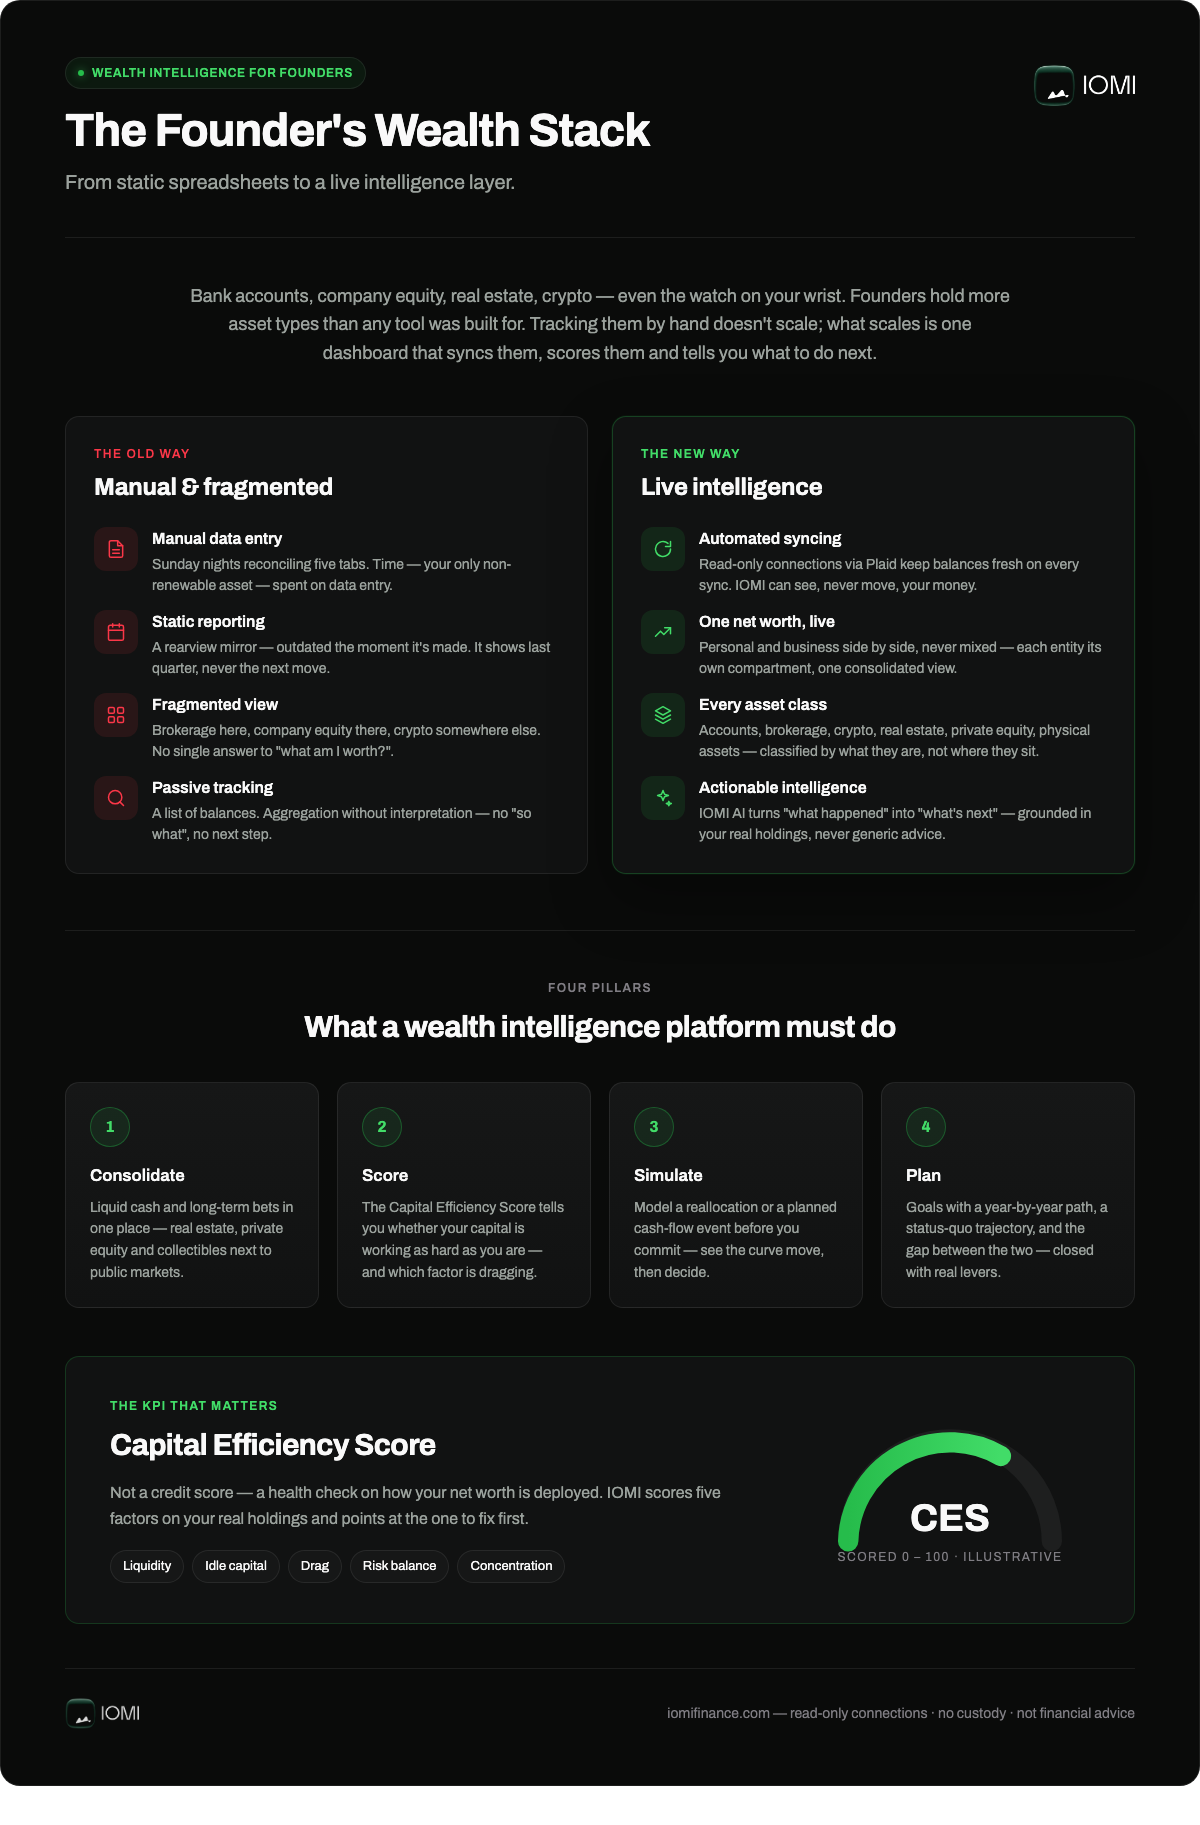
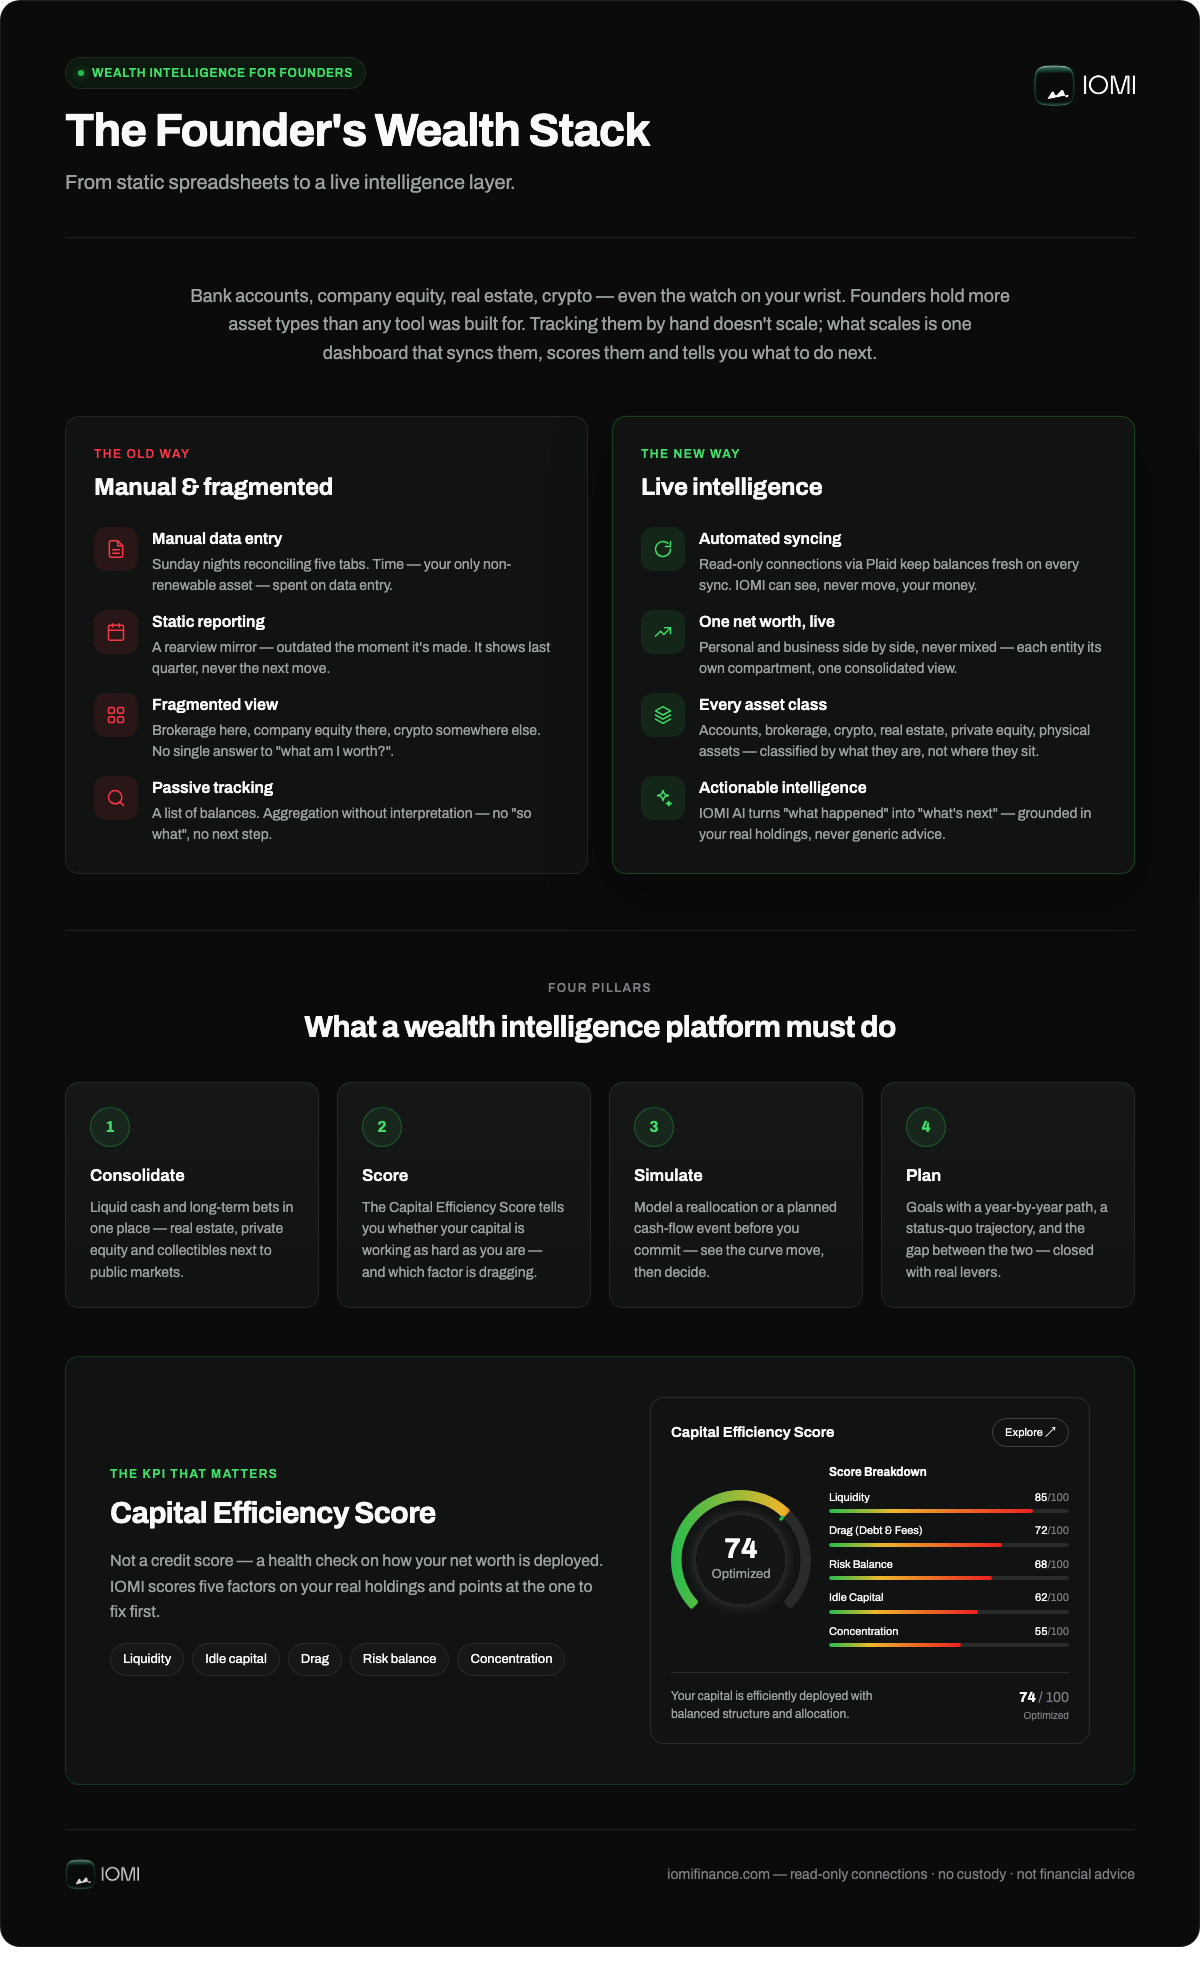
Nav: Features tab → #process; infographic shows the real CES card

diff --git a/index.html b/index.html
@@ -455,7 +455,7 @@ height="0" width="0" style="display:none;visibility:hidden"></iframe></noscript>
 <nav id="navbar" class="fixed top-0 left-0 right-0 z-50 transition-all duration-300 nav-tr" style="backdrop-filter:blur(0px)">
   <div class="max-w-7xl mx-auto px-5 flex items-center justify-between h-16">
     <a href="#hero" class="flex items-center"><img src="assets/iomi-logo.png" alt="IOMI" class="h-10 w-auto"></a>
-    <div class="hidden md:flex items-center gap-7 text-sm text-td"><a href="#see-it-in-action" class="nl hover:text-tp transition">IOMI in action</a><a href="#why-iomi" class="nl hover:text-tp transition">Why IOMI</a><a href="#ai" class="nl hover:text-tp transition">AI</a><a href="#pricing" class="nl hover:text-tp transition">Pricing</a><a href="#faq" class="nl hover:text-tp transition">FAQ</a></div>
+    <div class="hidden md:flex items-center gap-7 text-sm text-td"><a href="#see-it-in-action" class="nl hover:text-tp transition">IOMI in action</a><a href="#process" class="nl hover:text-tp transition">Features</a><a href="#why-iomi" class="nl hover:text-tp transition">Why IOMI</a><a href="#ai" class="nl hover:text-tp transition">AI</a><a href="#pricing" class="nl hover:text-tp transition">Pricing</a><a href="#faq" class="nl hover:text-tp transition">FAQ</a></div>
     <div class="flex items-center">
       <a href="https://app.iomifinance.com/login" class="nav-signin hidden md:inline text-[15px] font-medium hover:opacity-80 transition" style="color:#F9F9F9;margin-right:22px">Sign in</a>
       <a href="https://app.iomifinance.com/create-account" class="dotcta dotcta-green hidden md:inline-flex text-[15px]" style="padding:11px 24px"><span class="dc-in"><span class="dc-dot" aria-hidden="true"><svg width="16" height="16" viewBox="0 0 18 18" fill="none"><path d="M6.75 13.5L11.25 9L6.75 4.5" stroke="currentColor" stroke-width="1.6" stroke-linecap="round" stroke-linejoin="round"/></svg></span><span class="dc-label">Get started</span><span class="dc-arr"><svg width="16" height="16" viewBox="0 0 18 18" fill="none"><path d="M6.75 13.5L11.25 9L6.75 4.5" stroke="currentColor" stroke-width="1.6" stroke-linecap="round" stroke-linejoin="round"/></svg></span></span></a>

diff --git a/compare/copilot/index.html b/compare/copilot/index.html
@@ -174,7 +174,7 @@ footer{border-top:1px solid var(--bord);padding:48px 24px 40px}
       <p class="ft-tag">Your entire net worth — personal and business — in one live dashboard.</p>
     </div>
     <div class="ft-col"><div class="ft-h">Product</div>
-      <a href="/#ai">AI</a><a href="/#pricing">Pricing</a><a href="/#faq">FAQ</a></div>
+      <a href="/#process">Features</a><a href="/#ai">AI</a><a href="/#pricing">Pricing</a><a href="/#faq">FAQ</a></div>
     <div class="ft-col"><div class="ft-h">Compare</div>
       <a href="/why-iomi">Why IOMI</a><a href="/compare/monarch">IOMI vs Monarch</a><a href="/compare/kubera">IOMI vs Kubera</a><a href="/compare/copilot">IOMI vs Copilot Money</a><a href="/compare/nova">IOMI vs Nova Net Worth</a></div>
     <div class="ft-col"><div class="ft-h">Company</div>

diff --git a/compare/kubera/index.html b/compare/kubera/index.html
@@ -174,7 +174,7 @@ footer{border-top:1px solid var(--bord);padding:48px 24px 40px}
       <p class="ft-tag">Your entire net worth — personal and business — in one live dashboard.</p>
     </div>
     <div class="ft-col"><div class="ft-h">Product</div>
-      <a href="/#ai">AI</a><a href="/#pricing">Pricing</a><a href="/#faq">FAQ</a></div>
+      <a href="/#process">Features</a><a href="/#ai">AI</a><a href="/#pricing">Pricing</a><a href="/#faq">FAQ</a></div>
     <div class="ft-col"><div class="ft-h">Compare</div>
       <a href="/why-iomi">Why IOMI</a><a href="/compare/monarch">IOMI vs Monarch</a><a href="/compare/kubera">IOMI vs Kubera</a><a href="/compare/copilot">IOMI vs Copilot Money</a><a href="/compare/nova">IOMI vs Nova Net Worth</a></div>
     <div class="ft-col"><div class="ft-h">Company</div>

diff --git a/compare/monarch/index.html b/compare/monarch/index.html
@@ -175,7 +175,7 @@ footer{border-top:1px solid var(--bord);padding:48px 24px 40px}
       <p class="ft-tag">Your entire net worth — personal and business — in one live dashboard.</p>
     </div>
     <div class="ft-col"><div class="ft-h">Product</div>
-      <a href="/#ai">AI</a><a href="/#pricing">Pricing</a><a href="/#faq">FAQ</a></div>
+      <a href="/#process">Features</a><a href="/#ai">AI</a><a href="/#pricing">Pricing</a><a href="/#faq">FAQ</a></div>
     <div class="ft-col"><div class="ft-h">Compare</div>
       <a href="/why-iomi">Why IOMI</a><a href="/compare/monarch">IOMI vs Monarch</a><a href="/compare/kubera">IOMI vs Kubera</a><a href="/compare/copilot">IOMI vs Copilot Money</a><a href="/compare/nova">IOMI vs Nova Net Worth</a></div>
     <div class="ft-col"><div class="ft-h">Company</div>

diff --git a/compare/nova/index.html b/compare/nova/index.html
@@ -174,7 +174,7 @@ footer{border-top:1px solid var(--bord);padding:48px 24px 40px}
       <p class="ft-tag">Your entire net worth — personal and business — in one live dashboard.</p>
     </div>
     <div class="ft-col"><div class="ft-h">Product</div>
-      <a href="/#ai">AI</a><a href="/#pricing">Pricing</a><a href="/#faq">FAQ</a></div>
+      <a href="/#process">Features</a><a href="/#ai">AI</a><a href="/#pricing">Pricing</a><a href="/#faq">FAQ</a></div>
     <div class="ft-col"><div class="ft-h">Compare</div>
       <a href="/why-iomi">Why IOMI</a><a href="/compare/monarch">IOMI vs Monarch</a><a href="/compare/kubera">IOMI vs Kubera</a><a href="/compare/copilot">IOMI vs Copilot Money</a><a href="/compare/nova">IOMI vs Nova Net Worth</a></div>
     <div class="ft-col"><div class="ft-h">Company</div>

diff --git a/pricing/index.html b/pricing/index.html
@@ -166,7 +166,7 @@ footer{border-top:1px solid var(--bord);padding:48px 24px 40px}
       <p class="ft-tag">Your entire net worth — personal and business — in one live dashboard.</p>
     </div>
     <div class="ft-col"><div class="ft-h">Product</div>
-      <a href="/#ai">AI</a><a href="/#pricing">Pricing</a><a href="/#faq">FAQ</a></div>
+      <a href="/#process">Features</a><a href="/#ai">AI</a><a href="/#pricing">Pricing</a><a href="/#faq">FAQ</a></div>
     <div class="ft-col"><div class="ft-h">Compare</div>
       <a href="/why-iomi">Why IOMI</a><a href="/compare/monarch">IOMI vs Monarch</a><a href="/compare/kubera">IOMI vs Kubera</a><a href="/compare/copilot">IOMI vs Copilot Money</a><a href="/compare/nova">IOMI vs Nova Net Worth</a></div>
     <div class="ft-col"><div class="ft-h">Company</div>

diff --git a/why-iomi/index.html b/why-iomi/index.html
@@ -188,7 +188,7 @@ footer{border-top:1px solid var(--bord);padding:48px 24px 40px}
       <p class="ft-tag">Your entire net worth — personal and business — in one live dashboard.</p>
     </div>
     <div class="ft-col"><div class="ft-h">Product</div>
-      <a href="/#ai">AI</a><a href="/#pricing">Pricing</a><a href="/#faq">FAQ</a></div>
+      <a href="/#process">Features</a><a href="/#ai">AI</a><a href="/#pricing">Pricing</a><a href="/#faq">FAQ</a></div>
     <div class="ft-col"><div class="ft-h">Compare</div>
       <a href="/why-iomi">Why IOMI</a><a href="/compare/monarch">IOMI vs Monarch</a><a href="/compare/kubera">IOMI vs Kubera</a><a href="/compare/copilot">IOMI vs Copilot Money</a><a href="/compare/nova">IOMI vs Nova Net Worth</a></div>
     <div class="ft-col"><div class="ft-h">Company</div>
